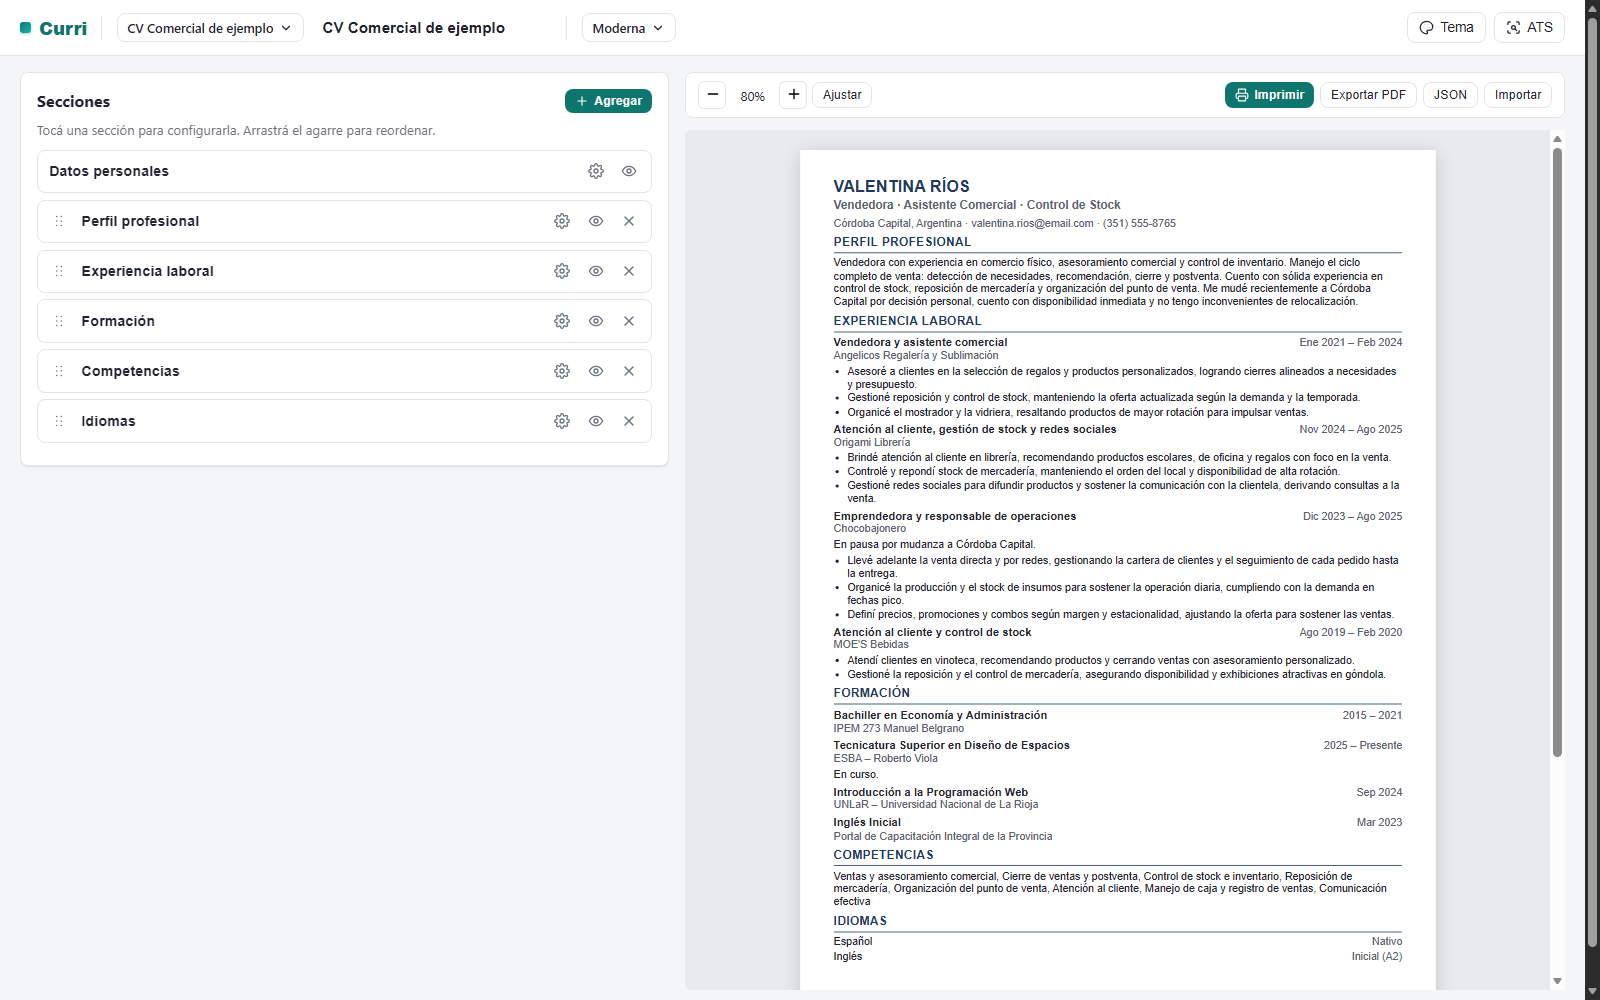
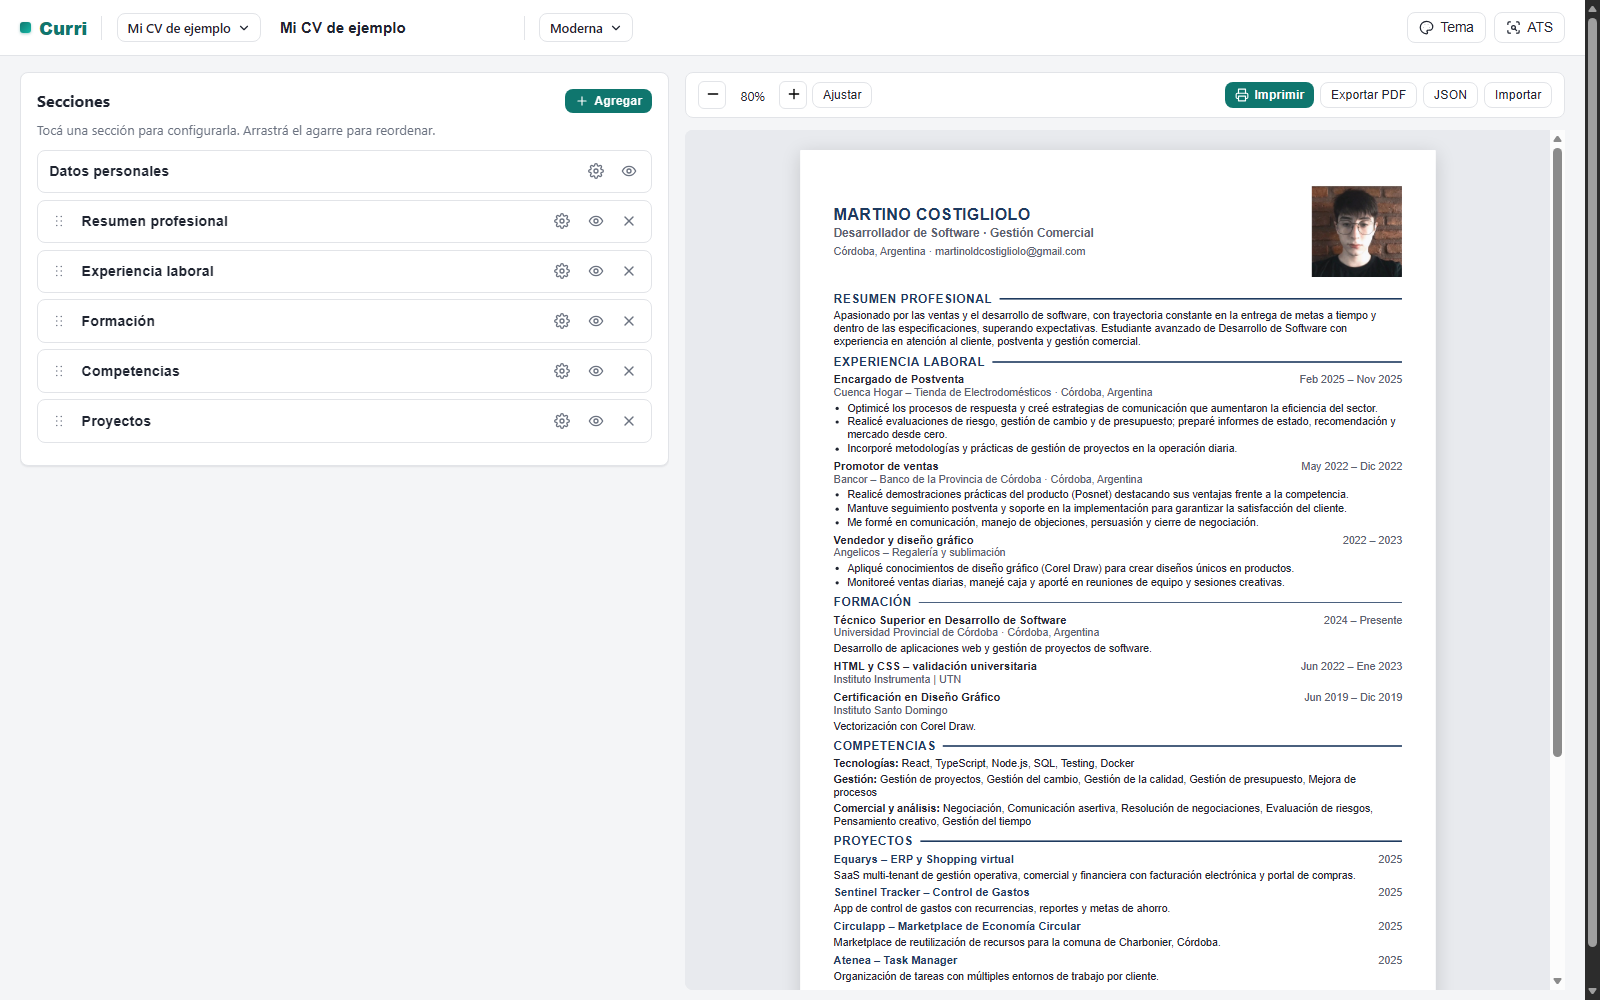
docs: use real (sanitized) Martino CV for screenshots

diff --git a/README.md b/README.md
@@ -12,7 +12,7 @@ postulantes (ATS) pueden parsear sin problemas. Todo se guarda en tu navegador
 
 ![Editor con vista previa](docs/screenshots/editor.png)
 
-![CV comercial de ejemplo](docs/screenshots/cv-comercial.png)
+![CV de ejemplo](docs/screenshots/cv-martino.png)
 
 ## Características
 
